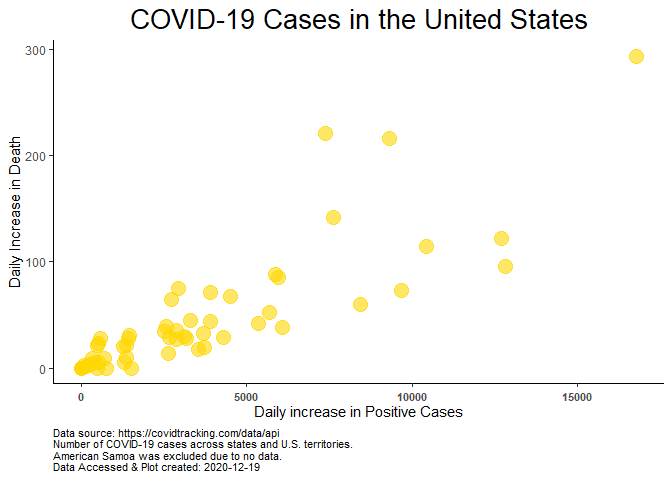
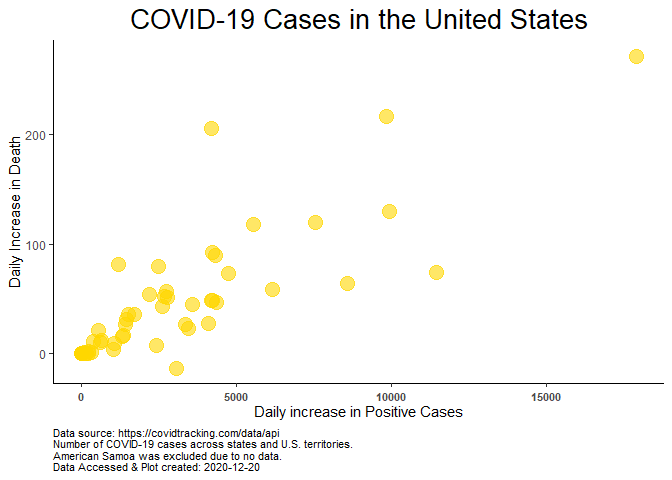
Added flags. Added per capita.

diff --git a/R/README.md b/R/README.md
@@ -9,7 +9,7 @@ Prepare a report on current COVID cases and make cool maps showing COVID
 cases.
 
 1.  Load libraries
-2.  Read in data from the covidtracking API and from project directory.
+2.  Read in data from the COVID-tracking API and from project directory.
 
 # Explore data
 
@@ -18,57 +18,57 @@ head(data)
 ```
 
     ##       date state positive probableCases negative pending totalTestResultsSource
-    ## 1 20201218    AK    41905            NA  1143017      NA        totalTestsViral
-    ## 2 20201218    AL   315683         58137  1507204      NA  totalTestsPeopleViral
-    ## 3 20201218    AR   197421         29987  1746014      NA        totalTestsViral
-    ## 4 20201218    AS        0            NA     2140      NA        totalTestsViral
-    ## 5 20201218    AZ   442671         18072  2181193      NA        totalTestsViral
-    ## 6 20201218    CA  1764374            NA 26976653      NA        totalTestsViral
+    ## 1 20201219    AK    42235            NA  1150883      NA        totalTestsViral
+    ## 2 20201219    AL   319904         59403  1514927      NA  totalTestsPeopleViral
+    ## 3 20201219    AR   200114         30827  1757984      NA        totalTestsViral
+    ## 4 20201219    AS        0            NA     2140      NA        totalTestsViral
+    ## 5 20201219    AZ   448231         18672  2196578      NA        totalTestsViral
+    ## 6 20201219    CA  1807982            NA 27304267      NA        totalTestsViral
     ##   totalTestResults hospitalizedCurrently hospitalizedCumulative inIcuCurrently
-    ## 1          1184922                   142                    928             NA
-    ## 2          1764750                  2447                  30224             NA
-    ## 3          1913448                  1073                  10430            368
+    ## 1          1193118                   146                    935             NA
+    ## 2          1775428                  2318                  30224             NA
+    ## 3          1927271                  1061                  10487            345
     ## 4             2140                    NA                     NA             NA
-    ## 5          4514548                  3931                  32293            915
-    ## 6         28741027                 16965                     NA           3553
+    ## 5          4563098                  4014                  32676            939
+    ## 6         29112249                 17398                     NA           3620
     ##   inIcuCumulative onVentilatorCurrently onVentilatorCumulative recovered
     ## 1              NA                    13                     NA      7165
-    ## 2            2384                    NA                   1371    183625
-    ## 3              NA                   181                   1132    171864
+    ## 2            2389                    NA                   1377    183625
+    ## 3              NA                   177                   1136    173832
     ## 4              NA                    NA                     NA        NA
-    ## 5              NA                   601                     NA     65350
+    ## 5              NA                   612                     NA     66132
     ## 6              NA                    NA                     NA        NA
     ##   dataQualityGrade     lastUpdateEt         dateModified checkTimeEt death
-    ## 1                A 12/18/2020 03:59 2020-12-18T03:59:00Z 12/17 22:59   183
-    ## 2                A 12/18/2020 11:00 2020-12-18T11:00:00Z 12/18 06:00  4296
-    ## 3               A+ 12/18/2020 00:00 2020-12-18T00:00:00Z 12/17 19:00  3139
+    ## 1                A 12/19/2020 03:59 2020-12-19T03:59:00Z 12/18 22:59   184
+    ## 2                A 12/19/2020 11:00 2020-12-19T11:00:00Z 12/19 06:00  4389
+    ## 3               A+ 12/19/2020 00:00 2020-12-19T00:00:00Z 12/18 19:00  3191
     ## 4                D  12/1/2020 00:00 2020-12-01T00:00:00Z 11/30 19:00     0
-    ## 5               A+ 12/18/2020 00:00 2020-12-18T00:00:00Z 12/17 19:00  7819
-    ## 6                B 12/18/2020 02:59 2020-12-18T02:59:00Z 12/17 21:59 22160
+    ## 5               A+ 12/19/2020 00:00 2020-12-19T00:00:00Z 12/18 19:00  7937
+    ## 6                B 12/19/2020 02:59 2020-12-19T02:59:00Z 12/18 21:59 22432
     ##   hospitalized          dateChecked totalTestsViral positiveTestsViral
-    ## 1          928 2020-12-18T03:59:00Z         1184922              50044
-    ## 2        30224 2020-12-18T11:00:00Z              NA                 NA
-    ## 3        10430 2020-12-18T00:00:00Z         1913448                 NA
+    ## 1          935 2020-12-19T03:59:00Z         1193118              50438
+    ## 2        30224 2020-12-19T11:00:00Z              NA                 NA
+    ## 3        10487 2020-12-19T00:00:00Z         1927271                 NA
     ## 4           NA 2020-12-01T00:00:00Z            2140                 NA
-    ## 5        32293 2020-12-18T00:00:00Z         4514548                 NA
-    ## 6           NA 2020-12-18T02:59:00Z        28741027                 NA
+    ## 5        32676 2020-12-19T00:00:00Z         4563098                 NA
+    ## 6           NA 2020-12-19T02:59:00Z        29112249                 NA
     ##   negativeTestsViral positiveCasesViral deathConfirmed deathProbable
-    ## 1            1133565                 NA            183            NA
-    ## 2                 NA             257546           3772           524
-    ## 3            1746014             167434           2776           363
+    ## 1            1141344                 NA            184            NA
+    ## 2                 NA             260501           3849           540
+    ## 3            1757984             169287           2821           370
     ## 4                 NA                  0             NA            NA
-    ## 5                 NA             424599           7142           677
-    ## 6                 NA            1764374             NA            NA
+    ## 5                 NA             429599           7246           691
+    ## 6                 NA            1807982             NA            NA
     ##   totalTestEncountersViral totalTestsPeopleViral totalTestsAntibody
     ## 1                       NA                    NA                 NA
-    ## 2                       NA               1764750                 NA
+    ## 2                       NA               1775428                 NA
     ## 3                       NA                    NA                 NA
     ## 4                       NA                    NA                 NA
-    ## 5                       NA               2605792             381780
+    ## 5                       NA               2626177             382700
     ## 6                       NA                    NA                 NA
     ##   positiveTestsAntibody negativeTestsAntibody totalTestsPeopleAntibody
     ## 1                    NA                    NA                       NA
-    ## 2                    NA                    NA                    80872
+    ## 2                    NA                    NA                    81525
     ## 3                    NA                    NA                       NA
     ## 4                    NA                    NA                       NA
     ## 5                    NA                    NA                       NA
@@ -83,31 +83,31 @@ head(data)
     ##   totalTestsPeopleAntigen positiveTestsPeopleAntigen totalTestsAntigen
     ## 1                      NA                         NA                NA
     ## 2                      NA                         NA                NA
-    ## 3                  198712                      36355             21856
+    ## 3                  201974                      37260             21856
     ## 4                      NA                         NA                NA
     ## 5                      NA                         NA                NA
     ## 6                      NA                         NA                NA
     ##   positiveTestsAntigen fips positiveIncrease negativeIncrease    total
-    ## 1                   NA    2              487             8712  1184922
-    ## 2                   NA    1             5348             7855  1822887
-    ## 3                 3300    5             2878            11752  1943435
+    ## 1                   NA    2              330             7866  1193118
+    ## 2                   NA    1             4221             7723  1834831
+    ## 3                 3300    5             2693            11970  1958098
     ## 4                   NA   60                0                0     2140
-    ## 5                   NA    4             7635            15289  2623864
-    ## 6                   NA    6            41012           243657 28741027
+    ## 5                   NA    4             5560            15385  2644809
+    ## 6                   NA    6            43608           327614 29112249
     ##   totalTestResultsIncrease   posNeg deathIncrease hospitalizedIncrease
-    ## 1                     9199  1184922             0                    7
-    ## 2                    12037  1822887            42                  665
-    ## 3                    13674  1943435            27                   73
+    ## 1                     8196  1193118             1                    7
+    ## 2                    10678  1834831            93                    0
+    ## 3                    13823  1958098            52                   57
     ## 4                        0     2140             0                    0
-    ## 5                    51882  2623864           142                  442
-    ## 6                   284669 28741027           300                    0
+    ## 5                    48550  2644809           118                  383
+    ## 6                   371222 29112249           272                    0
     ##                                       hash commercialScore negativeRegularScore
-    ## 1 4863f26cfbc760628f882b7b8147ca9369309b67               0                    0
-    ## 2 a3401e8349ad4a94de986e1065307218c3850bbe               0                    0
-    ## 3 2f79d80cb5b5595d2f74109eebe0ae32ca41d78c               0                    0
-    ## 4 b16a8a33adc75a80d68ddac6d8dcff2372bc23c5               0                    0
-    ## 5 4f1ee05f52a20ff3e5c005e8d575660b3fee1a7b               0                    0
-    ## 6 14cf8f046f6e5a9800e196f940be93dbf8f9928e               0                    0
+    ## 1 ffa7f1c1f50f93cfb62396ee45bff033ea2ded2a               0                    0
+    ## 2 68df3c8f4569c9d33646ce52eda57b6d22f07f74               0                    0
+    ## 3 b634ee09b4a36af5b40fcde9aeefedb57060e580               0                    0
+    ## 4 724b9522e4f931c541356fbb34c0a0859c78e331               0                    0
+    ## 5 aa76bd1ca231d1d21bd9555510f83a9d7fcaf1d6               0                    0
+    ## 6 469b836dcbf61759b09ccd4f802c2d355e7c71d9               0                    0
     ##   negativeScore positiveScore score grade
     ## 1             0             0     0    NA
     ## 2             0             0     0    NA
@@ -264,7 +264,15 @@ countrylist <- c("USA",
                  "Italy",
                  "India",
                  "China",
-                 "Australia") # Countries to analyze
+                 "Australia",
+                 "Cuba",
+                 "Niger",
+                 "Ghana",
+                "Spain",
+                "Japan",
+                "Peru",
+                "Iran"
+                ) # Countries to analyze
 
 # Index of countries
 index <- coun_data %>%
@@ -361,6 +369,7 @@ dat = WDI(indicator='SP.POP.TOTL', start = 2019, end=2019) %>%
   mutate(country = case_when(
     country %in% "United States" ~ "USA",
     country %in% "United Kingdom" ~ "UK",
+    country %in% "Iran, Islamic Rep." ~ "Iran",
     TRUE ~ country
   )) %>% 
   janitor::clean_names() %>% 
@@ -409,18 +418,25 @@ sum_total <- total %>%
 sum_total
 ```
 
-    ## # A tibble: 9 x 7
-    ##   Country  Cases_mean Cases_sd Deaths_mean Deaths_sd Recovered_mean Recovered_sd
-    ##   <chr>         <dbl>    <dbl>       <dbl>     <dbl>          <dbl>        <dbl>
-    ## 1 Austral~     27513      457.        893.     30.9          25088.         707.
-    ## 2 Brazil     5594909.  894725.     158964.  17083.         4979734.      833267.
-    ## 3 China        91783.    1519.       4742.      6.94         86335.        1053.
-    ## 4 India      7898756. 1757443.     118414.  22020.         7133099.     1994437.
-    ## 5 Italy       909763.  652590.      44885.  11880.          475521.      355215.
-    ## 6 Mexico      940741.  208996.      92477.  15517.          744488.      123637.
-    ## 7 South A~    738516.   75881.      19396.   2758.          666759.       66532.
-    ## 8 UK         1066786.  592767.      50059.   9077.            2967.         685.
-    ## 9 USA       10381720. 3732201.     239232.  37774.         3080745.     1632778.
+    ## # A tibble: 16 x 7
+    ##    Country Cases_mean Cases_sd Deaths_mean Deaths_sd Recovered_mean Recovered_sd
+    ##    <chr>        <dbl>    <dbl>       <dbl>     <dbl>          <dbl>        <dbl>
+    ##  1 Austra~     27513      457.       893.      30.9          25088.        707. 
+    ##  2 Brazil    5594909.  894725.    158964.   17083.         4979734.     833267. 
+    ##  3 China       91783.    1519.      4742.       6.94         86335.       1053. 
+    ##  4 Cuba         7004.    1655.       126.       9.98          6331.       1566. 
+    ##  5 Ghana       48953.    2810.       314.      12.5          47903        2567. 
+    ##  6 India     7898756. 1757443.    118414.   22020.         7133099.    1994437. 
+    ##  7 Iran       695459.  271243.     36790.   11214.          529736.     174649. 
+    ##  8 Italy      909763.  652590.     44885.   11880.          475521.     355215. 
+    ##  9 Japan      115482    39435.      1862.     381.           98446.      30395. 
+    ## 10 Mexico     940741.  208996.     92477.   15517.          744488.     123637. 
+    ## 11 Niger        1437.     431.        71.9      4.98          1168.         80.2
+    ## 12 Peru       885081.   89076.     34175     2064.          788634.     123325. 
+    ## 13 South ~    738516.   75881.     19396.    2758.          666759.      66532. 
+    ## 14 Spain     1195153.  447725.     38013.    7033.          150376           0  
+    ## 15 UK        1066786.  592767.     50059.    9077.            2967.        685. 
+    ## 16 USA      10381720. 3732201.    239232.   37774.         3080745.    1632778.
 
 Per Capita Deaths
 
@@ -429,6 +445,8 @@ ggplot(total) +
   geom_histogram(aes(capitaDeaths, fill = Country),
                  alpha = 0.8,
                  bins = 50) +
+  geom_density(aes(capitaDeaths, fill = Country),
+                 alpha = 0.8) +
   theme_minimal()
 ```
 
@@ -436,18 +454,40 @@ ggplot(total) +
 
 ## Make animation
 
+### Observed cases (not standardized)
+
 ``` r
-p <- ggplot(
-  total, 
-  aes(x = Cases, y = Deaths, color = Country)
-  ) +
-  geom_point(alpha = 0.7, size = 7, position = position_jitter(h=0.15,w=0.15)) +
+total <- total %>% 
+mutate(country = case_when(
+                          Country %in% "Australia" ~ "au",
+                          Country %in% "Brazil" ~ "br",
+                          Country %in% "China" ~ "cn",
+                          Country %in% "Cuba" ~ "cu",
+                          Country %in% "Ghana" ~ "gh",
+                           Country %in% "India" ~ "io",
+                           Country %in% "Iran" ~ "ir",
+                           Country %in% "Italy" ~ "it",
+                           Country %in% "Japan" ~ "jp",
+                           Country %in% "Mexico" ~ "mx",
+                           Country %in% "Niger" ~ "ne",
+                           Country %in% "Peru" ~ "pe",
+                           Country %in% "South Africa" ~ "sa",
+                           Country %in% "Spain" ~ "es",
+                           Country %in% "UK" ~ "gb",
+                           Country %in% "USA" ~ "us"))
+
+p <- ggplot() +
+  geom_point(data = total, aes(x = Cases, y = Deaths), alpha = 0.7, size = 7#, #position = position_jitter(h=0.15,w=0.15)
+             ) +
+  geom_flag(data = total, aes(x = Cases,
+                y = Deaths, 
+               country = country)) +
   ggtitle("COVID Cases & Deaths in Last 100 Days")  +
   scale_color_brewer(palette = "Set3") +
   scale_size(range = c(2, 12)) +
   #scale_x_log10() +
   labs(x = "Cases (Daily Observed Number)", y = "Deaths(Daily Observed Number)") +
-  geom_text(aes(label = Country), color = "black") +
+  geom_text(data = total, aes(label = Country, x = Cases, y = Deaths), color = "black") +
   theme_classic() +
   theme(axis.text= element_text(size = 20, face = "bold"),
         plot.title = element_text(hjust = 0.5, size = 25),
@@ -461,3 +501,49 @@ animation
 ```
 
 ![](README_files/figure-gfm/unnamed-chunk-13-1.gif)<!-- -->
+
+### Observed cases per Capita (population standardized)
+
+``` r
+total <- total %>% 
+mutate(country = case_when(
+                          Country %in% "Australia" ~ "au",
+                          Country %in% "Brazil" ~ "br",
+                          Country %in% "China" ~ "cn",
+                          Country %in% "Cuba" ~ "cu",
+                          Country %in% "Ghana" ~ "gh",
+                           Country %in% "India" ~ "io",
+                           Country %in% "Iran" ~ "ir",
+                           Country %in% "Italy" ~ "it",
+                           Country %in% "Japan" ~ "jp",
+                           Country %in% "Mexico" ~ "mx",
+                           Country %in% "Niger" ~ "ne",
+                           Country %in% "Peru" ~ "pe",
+                           Country %in% "South Africa" ~ "sa",
+                           Country %in% "Spain" ~ "es",
+                           Country %in% "UK" ~ "gb",
+                           Country %in% "USA" ~ "us"))
+
+p2 <- ggplot() +
+  geom_flag(data = total,
+            aes(x = capitaCases, y = capitaDeaths, country = country)) +
+  ggtitle("COVID Cases & Deaths in Last 100 Days")  +
+  scale_color_brewer(palette = "Set3") +
+  scale_size(range = c(2, 12)) +
+  #scale_x_log10() +
+  labs(x = "Cases (Daily Observed Number per Capita)", y = "Deaths(Daily Observed Number per Capita)") +
+  geom_text(data = total,
+            aes(x = capitaCases, y = capitaDeaths, label = Country)) +
+  theme_classic() +
+  theme(axis.text= element_text(size = 20, face = "bold"),
+        plot.title = element_text(hjust = 0.5, size = 25),
+        axis.title = element_text(size = 22)) +
+  theme(legend.position = "top")
+
+animation2 <- p2 + transition_time(Date) +
+  labs(title = "Date: {frame_time}")
+
+animation2
+```
+
+![](README_files/figure-gfm/unnamed-chunk-14-1.gif)<!-- -->
